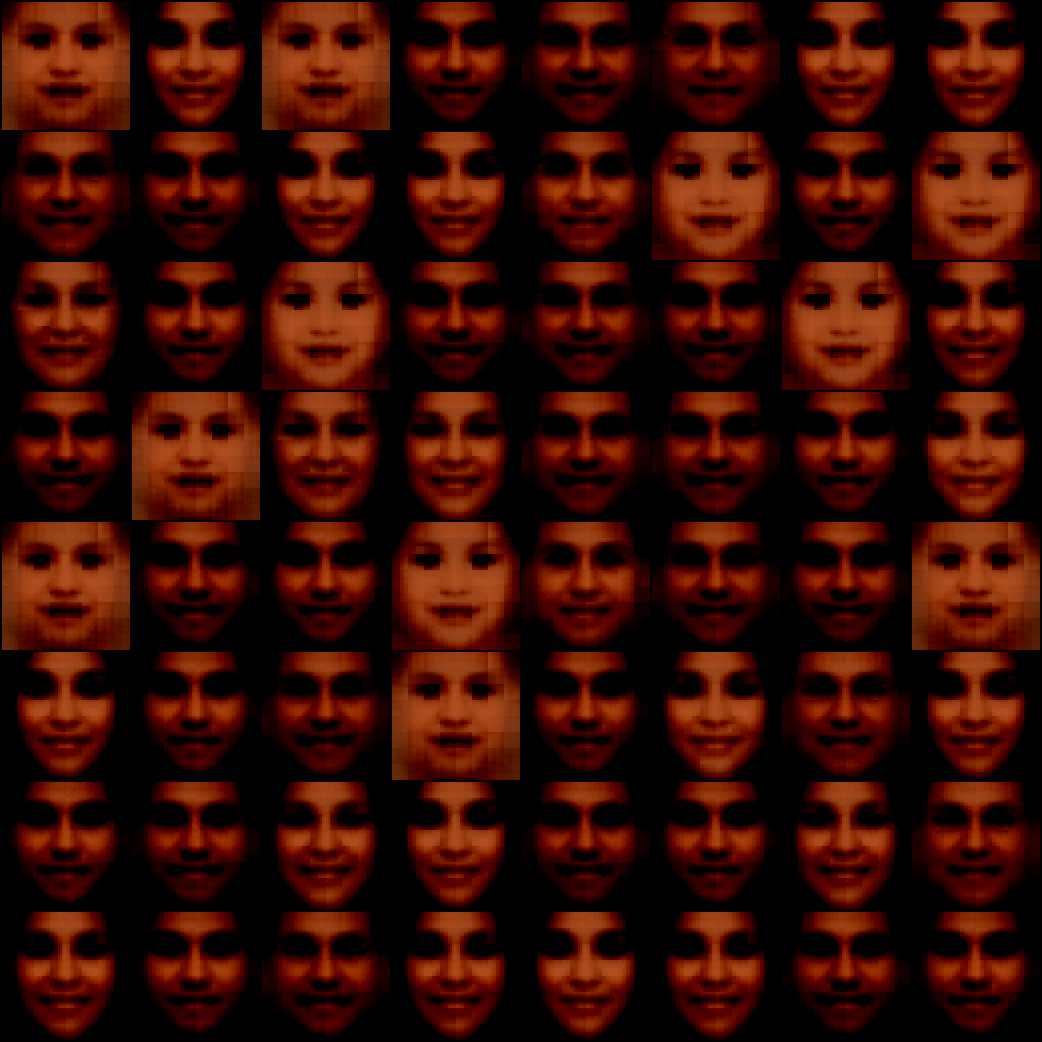
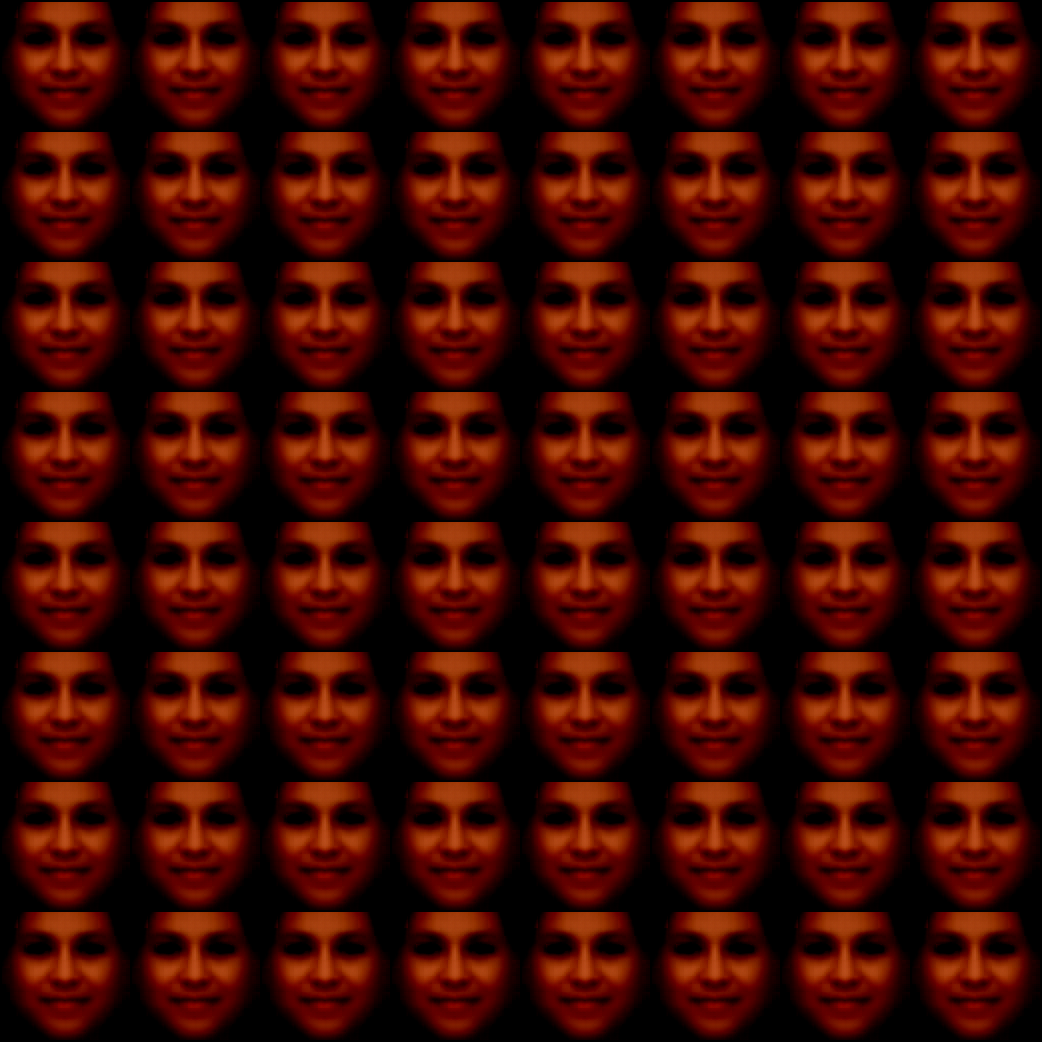
merge with mattan

diff --git a/model.py b/model.py
@@ -194,15 +194,16 @@ class Net(object):
                 eg_optimizer.step()
 
                 now = datetime.datetime.now()
-                print(f"TRAIN: [{now.hour:d}:{now.minute:d}] [Epoch {epoch:d}, Loss: {loss.item():f}")
+
+                print(f"TRAIN:[{now.hour:d}:{now.minute:d}] [Epoch {epoch:d}, Batch {i:d}] Loss: {loss.item():f}")
                 epoch_loss += loss.item()
                 # break
             if (True):
                 #####test#####
                 print("DEBUG: ##############test###############")
                 z = self.E(test_images)
-                z_l = torch.cat((z, test_labels), 1)
-                generated = self.G(z_l)
+                #z_l = torch.cat((z, test_labels), 1)
+                generated = self.G(z)
                 test_loss = criterion(generated, test_images)
                 now = datetime.datetime.now()
                 print(f"TEST: [{now.hour:d}:{now.minute:d}] [Epoch {epoch:d}, Loss: {test_loss.item():f}")

diff --git a/consts.py b/consts.py
@@ -3,7 +3,7 @@ import numpy as np
 import random
 import re
 IMAGE_PATH = "./data/UTKFace"
-EPOCHS = 4
+EPOCHS = 100
 NUM_OF_MOCK_IMGS = np.random.randint(2, 16)
 IMAGE_DIMS = torch.Tensor([NUM_OF_MOCK_IMGS, 3, 128, 128])
 MOCK_IMAGES = torch.rand(tuple(IMAGE_DIMS))
